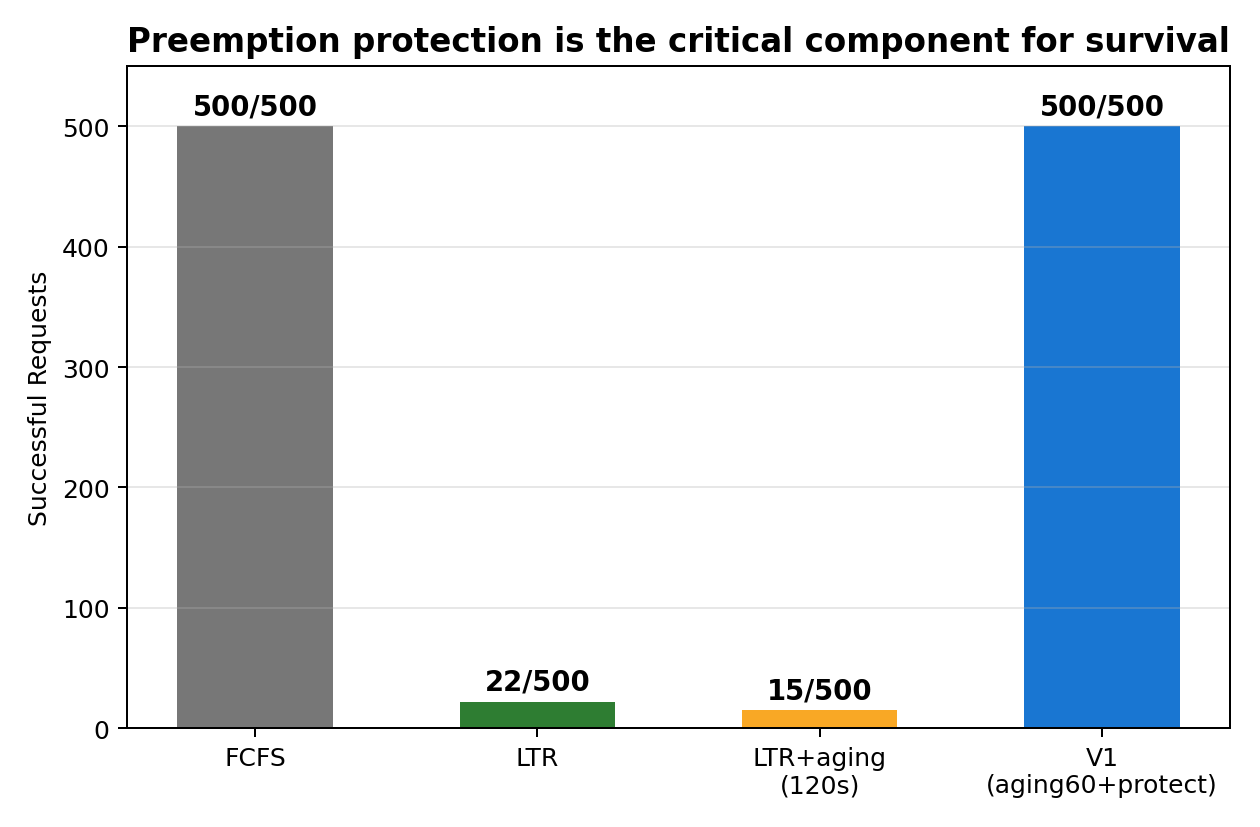
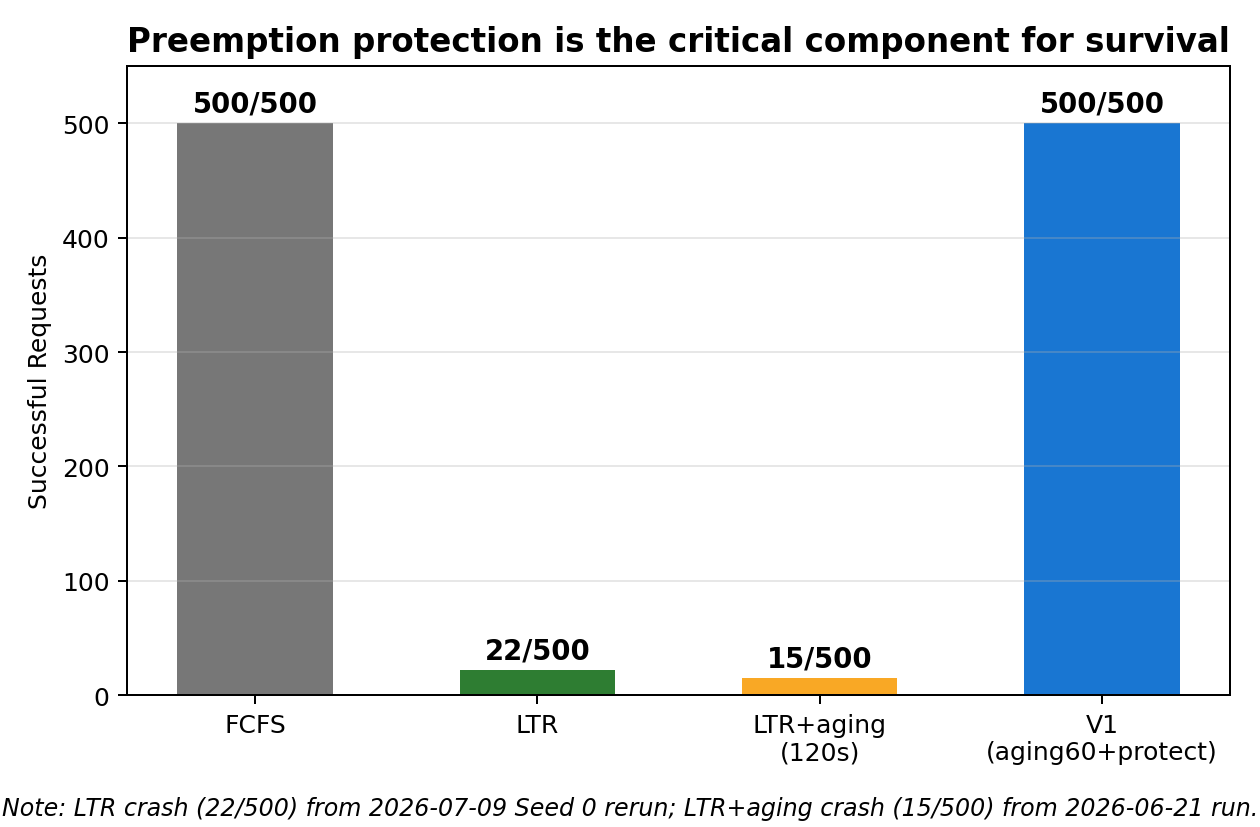
docs: soften tail collapse claim and update honest statement dates

diff --git a/scripts/make_defense_charts.py b/scripts/make_defense_charts.py
@@ -192,7 +192,9 @@ def fig_ood_survival():
     ax.set_ylim(0, 550)
     ax.set_title("Preemption protection is the critical component for survival", fontsize=13, fontweight="bold")
     ax.grid(axis="y", alpha=0.3)
-    fig.tight_layout()
+    fig.text(0.5, 0.015, "Note: LTR crash (22/500) from 2026-07-09 Seed 0 rerun; LTR+aging crash (15/500) from 2026-06-21 run.",
+             ha="center", fontsize=9.5, style="italic")
+    fig.tight_layout(rect=[0, 0.04, 1, 1])
     fig.savefig(f"{OUT}/fig_ood_survival.png", dpi=180)
     print(f"saved {OUT}/fig_ood_survival.png")
 

diff --git a/README.md b/README.md
@@ -189,13 +189,13 @@ Peak in-distribution gain: **8.1× mean TTFT** at rate 8.
 | Kendall tau | N/A | −0.420 (vs −0.642 in-dist) | **−34% ranking quality** |
 | Mean TTFT (rate 4) | 40,892 ms | 23,810 ms | LTR 1.72× better mean TTFT ✓ |
 | p99 latency (rate 4) | 151 s | 231 s | **LTR 1.53× worse p99** ✗ |
-| Rate-8 stability | 500/500 complete | engine crash (seed 0) | **LTR crashes or tail-collapses** ✗ |
+| Rate-8 stability | 500/500 complete | engine crash (seed 0) | **LTR crashes or yields no tail benefit** ✗ |
 
 ### OOD Breakdown Summary ("三连崩")
 
 1. **Ranking quality collapses**: Kendall tau drops from −0.642 to −0.420 (−34%).
 2. **Tail-latency inversion**: p99 worsens from 151 s (FCFS) to 231 s (LTR) — 53% worse.
-3. **Seed-sensitive failure at rate 8**: mis-ranked preemption storm exhausts CPU swap and deterministically crashes the engine on seed 0 (while causing severe tail-latency collapse on surviving seeds).
+3. **Seed-sensitive failure at rate 8**: mis-ranked preemption storm exhausts CPU swap and deterministically crashes the engine on seed 0 (and survives on some seeds but with **no tail benefit over FCFS**).
 
 ### Honest Contribution Statement
 
@@ -208,10 +208,10 @@ Peak in-distribution gain: **8.1× mean TTFT** at rate 8.
 > engine **crashes**. The only configuration that is actually deployable — no
 > p99 regression and no crash — is the waiting-time aging gate, whose mean-TTFT
 > gain shrinks to roughly **~1.2–1.3×** over FCFS. That mitigation has now been
-> **validated on the RTX 3090** (2026-06-21, single seed): aging gate +
+> **validated on the RTX 3090** (2026-07-09, seeds 0–2): aging gate +
 > preemption protection completes 500/500 at OOD rate 8 where raw LTR crashes,
-> and at rate 4 beats FCFS on both mean and p99 TTFT (37.1 s / 98.0 s vs
-> 49.6 s / 110.4 s). However, this safety comes at a cost: **on the in-distribution trace, the mean TTFT advantage drops from LTR's 2.03s to 13.07s** (compared to FCFS's 16.36s) — a tradeoff of in-distribution speed for out-of-distribution stability. We do **not** claim "8× everywhere," and we do **not** claim a
+> and at rate 4 beats FCFS on both mean and p99 TTFT (34.8 s / 87.7 s vs
+> 40.4 s / 96.0 s). However, this safety comes at a cost: **on the in-distribution trace, the mean TTFT advantage drops from LTR's 2.03s to 13.07s** (compared to FCFS's 16.36s) — a tradeoff of in-distribution speed for out-of-distribution stability. We do **not** claim "8× everywhere," and we do **not** claim a
 > free ~1.7× deployable gain.
 
 ### Diagnostic Figure
